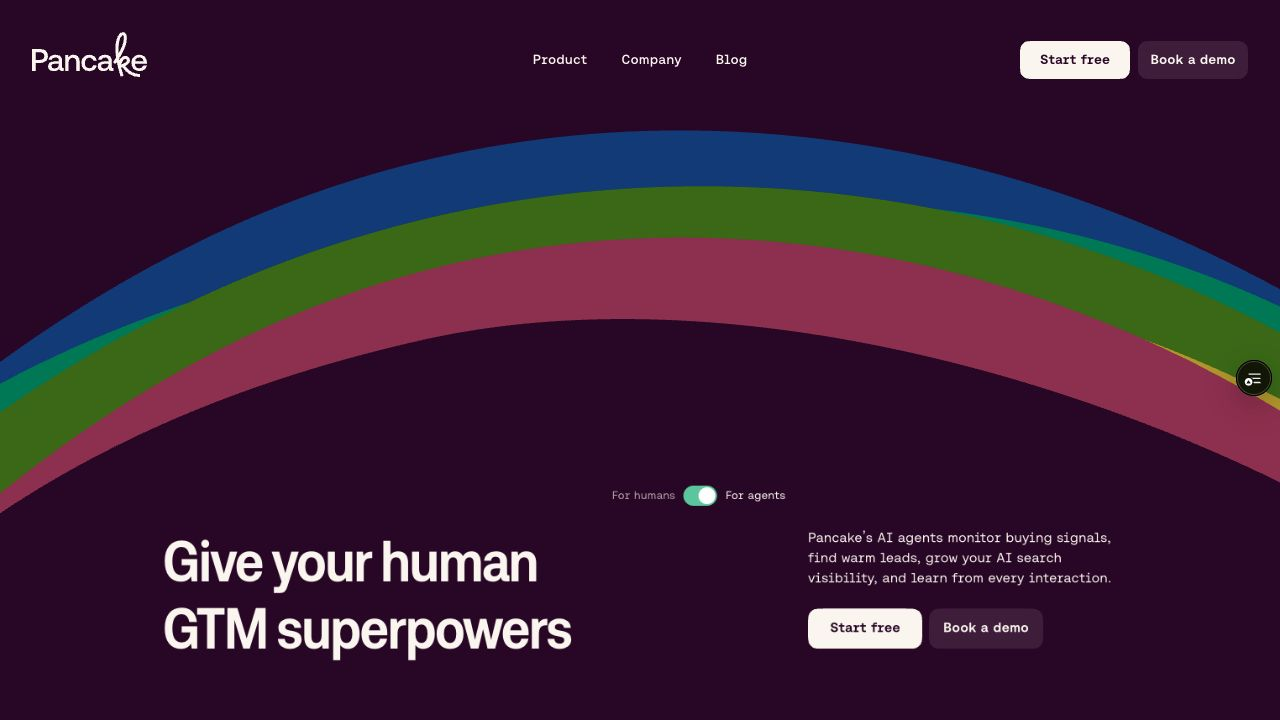
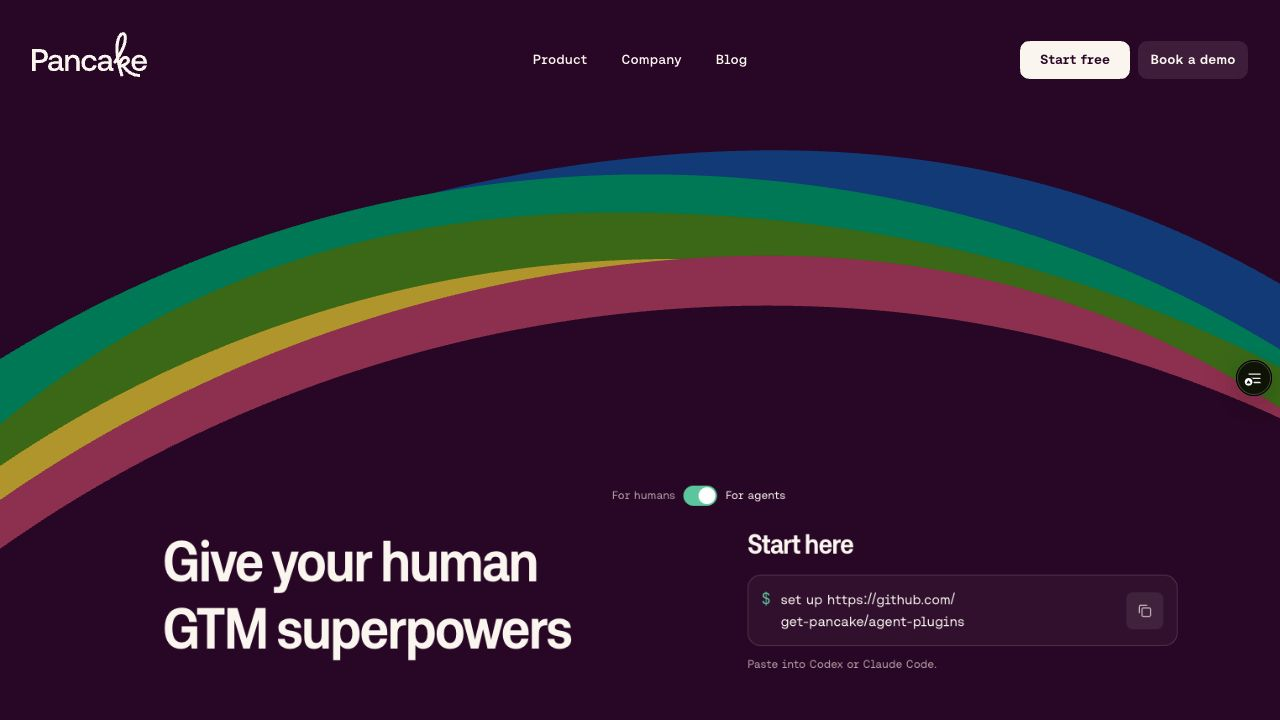
Add agent setup terminal CTA

diff --git a/app/_styles/landing-v3/audience.css b/app/_styles/landing-v3/audience.css
@@ -33,6 +33,42 @@ html:has(.lp-audience-page)::view-transition-new(lp-audience-switch) { animation
 .lp-audience-page .lp-hero-title { display: grid; }
 .lp-hero-title__copy { grid-area: 1 / 1; font: inherit; letter-spacing: inherit; }
 .lp-hero-title__copy[aria-hidden="true"] { visibility: hidden; }
+
+/* The agent's next step occupies the existing right-hand hero column.
+   The original human content keeps its own untouched layout. */
+.lp-hero-col--agent { display: none; }
+.lp-hero-inner:not([data-title-ready="true"]) .lp-hero-col--agent { visibility: hidden; }
+[data-audience="agents"] .lp-hero-col--human { display: none; }
+[data-audience="agents"] .lp-hero-col--agent { display: block; top: var(--lp-hero-title-top); bottom: auto; }
+.lp-agent-start { width: calc(var(--lp-space-8) * 16); max-width: 100%; color: var(--lp-text); }
+.lp-agent-start__title { margin: 0 0 var(--lp-space-4); font-size: var(--lp-text-3xlg); line-height: 1.2; letter-spacing: -.03em; }
+.lp-agent-terminal { display: grid; grid-template-columns: auto minmax(0, 1fr) auto; gap: var(--lp-space-3); align-items: center; padding: var(--lp-space-4); border: var(--lp-line) solid color-mix(in srgb, var(--lp-page-bg) 16%, transparent); border-radius: var(--lp-r-m); background: color-mix(in srgb, var(--lp-page-bg) 5%, var(--lp-ink-100)); }
+.lp-agent-terminal__prompt { color: var(--lp-green-20); font: inherit; align-self: start; line-height: 1.6; }
+.lp-agent-terminal__code { display: block; font-family: var(--lp-font-fono); font-size: var(--lp-text-md); line-height: 1.6; color: var(--lp-page-bg); overflow-wrap: anywhere; text-wrap: balance; user-select: text; }
+.lp-agent-terminal__segment { font: inherit; white-space: nowrap; }
+.lp-agent-terminal__copy { display: grid; place-items: center; width: calc(var(--lp-space-12) - var(--lp-space-1)); height: calc(var(--lp-space-12) - var(--lp-space-1)); padding: 0; border: 0; border-radius: var(--lp-r-xsm); background: color-mix(in srgb, var(--lp-page-bg) 8%, transparent); color: var(--lp-ink-50); cursor: pointer; touch-action: manipulation; transition: background-color .16s ease-out, color .16s ease-out, transform .16s ease-out; }
+.lp-agent-terminal__copy:hover { background: color-mix(in srgb, var(--lp-page-bg) 14%, transparent); color: var(--lp-page-bg); }
+.lp-agent-terminal__copy:active { transform: scale(.94); }
+.lp-agent-terminal__copy:focus-visible { outline: calc(2 * var(--lp-line)) solid var(--lp-green-20); outline-offset: var(--lp-space-1); }
+.lp-agent-terminal__copy svg { width: calc(var(--lp-space-4) + var(--lp-space-1)); height: calc(var(--lp-space-4) + var(--lp-space-1)); }
+.lp-agent-terminal[data-copy-state="copied"] .lp-agent-terminal__copy { color: var(--lp-green-20); }
+.lp-agent-terminal[data-copy-state="copied"] svg { animation: lp-agent-copy-check .18s var(--lp-audience-ease); }
+.lp-agent-start__hint { padding-top: var(--lp-space-3); min-height: calc(var(--lp-space-3) + 1.5em); font-size: var(--lp-text-sm); line-height: 1.5; color: var(--lp-ink-60); }
+@keyframes lp-agent-copy-check { from { opacity: 0; transform: scale(.8); } to { opacity: 1; transform: scale(1); } }
+@media (max-width: 1024px) {
+  [data-audience="agents"] .lp-hero-inner { width: 100%; min-width: 0; }
+  .lp-hero-col--agent { width: 100%; min-width: 0; max-width: 100%; }
+  .lp-agent-start { width: 100%; max-width: calc(var(--lp-space-8) * 16); }
+}
+@media (max-width: 767px) {
+  .lp-agent-start__title { font-size: var(--lp-text-2xlg); }
+  .lp-agent-terminal { gap: var(--lp-space-2); padding: var(--lp-space-3); }
+  .lp-agent-start__hint { min-height: calc(var(--lp-space-3) + 3em); }
+}
+@media (prefers-reduced-motion: reduce) {
+  .lp-agent-terminal__copy { transition: none; }
+  .lp-agent-terminal[data-copy-state="copied"] svg { animation: none; }
+}
 .lp-audience-selector { display: grid; grid-template-columns: 1fr auto 1fr; align-items: center; gap: var(--lp-space-2); color: var(--lp-text); font-size: var(--lp-text-sm); white-space: nowrap; }
 .lp-audience-selector__label { opacity: .65; }
 .lp-audience-selector__label:first-child { text-align: right; }

diff --git a/components/sections/landing-v3/LpAgentStart.tsx b/components/sections/landing-v3/LpAgentStart.tsx
@@ -1,0 +1,54 @@
+"use client";
+
+import { useEffect, useRef, useState } from "react";
+
+// The public plugin repository contains the maintained client-specific setup.
+// This is an instruction for an agent, not a shell command.
+const instruction = "set up https://github.com/get-pancake/agent-plugins";
+
+export function LpAgentStart() {
+  const [status, setStatus] = useState<"idle" | "copied" | "error">("idle");
+  const reset = useRef<ReturnType<typeof setTimeout>>();
+  const code = useRef<HTMLElement>(null);
+
+  useEffect(() => () => clearTimeout(reset.current), []);
+
+  const copy = async () => {
+    clearTimeout(reset.current);
+    try {
+      await navigator.clipboard.writeText(instruction);
+      setStatus("copied");
+      reset.current = setTimeout(() => setStatus("idle"), 2400);
+    } catch {
+      // Keep a useful manual path when clipboard permission is unavailable.
+      if (code.current) {
+        const range = document.createRange();
+        range.selectNodeContents(code.current);
+        const selection = window.getSelection();
+        selection?.removeAllRanges();
+        selection?.addRange(range);
+      }
+      setStatus("error");
+    }
+  };
+
+  return <div className="lp-agent-start" aria-labelledby="lp-agent-start-title">
+    <h2 id="lp-agent-start-title" className="lp-agent-start__title lp-display">Start here</h2>
+    <div className="lp-agent-terminal" data-copy-state={status}>
+      <span className="lp-agent-terminal__prompt" aria-hidden="true">$</span>
+      <code ref={code} className="lp-agent-terminal__code">set up https://github.com/<wbr /><span className="lp-agent-terminal__segment">get-pancake/</span><wbr /><span className="lp-agent-terminal__segment">agent-plugins</span></code>
+      <button
+        type="button"
+        className="lp-agent-terminal__copy"
+        aria-label={status === "copied" ? "Instruction copied" : "Copy instruction"}
+        onClick={copy}
+      >
+        {status === "copied" ? <svg key="check" viewBox="0 0 24 24" fill="none" stroke="currentColor" strokeWidth="1.5" strokeLinecap="round" strokeLinejoin="round" aria-hidden="true"><path d="m5 12 4 4L19 6" /></svg>
+          : <svg key="copy" viewBox="0 0 24 24" fill="none" stroke="currentColor" strokeWidth="1.5" strokeLinecap="round" strokeLinejoin="round" aria-hidden="true"><rect x="8" y="8" width="12" height="12" rx="2" /><path d="M15 4H6a2 2 0 0 0-2 2v9" /></svg>}
+      </button>
+    </div>
+    <p className="lp-agent-start__hint" role="status" aria-live="polite">
+      {status === "error" ? "Select the instruction and copy it." : status === "copied" ? "Copied. Paste into Codex or Claude Code." : "Paste into Codex or Claude Code."}
+    </p>
+  </div>;
+}

diff --git a/components/sections/landing-v3/LpHero.tsx b/components/sections/landing-v3/LpHero.tsx
@@ -1,4 +1,5 @@
 import { AudienceHeadline, AudienceSelector } from "./LpAudience";
+import { LpAgentStart } from "./LpAgentStart";
 import { LpArcCanvas } from "@/components/sections/landing-v3/LpArcCanvas";
 import { LpFxLink, LpFxPill } from "@/components/sections/landing-v3/LpFxButton";
 import { LpPancakes } from "@/components/sections/landing-v3/LpPancakes";
@@ -32,7 +33,7 @@ export function LpHero() {
         <h1 id="lp-hero-title" className="lp-hero-title lp-display">
           <AudienceHeadline />
         </h1>
-        <div className="lp-hero-col">
+        <div className="lp-hero-col lp-hero-col--human">
           <p className="lp-hero-lede">
             Pancake’s AI agents monitor buying signals, find warm leads, grow
             your AI search visibility, and learn from every interaction.
@@ -54,6 +55,7 @@ export function LpHero() {
             </LpFxPill>
           </div>
         </div>
+        <div className="lp-hero-col lp-hero-col--agent"><LpAgentStart /></div>
       </div>
     </section>
   );

diff --git a/components/sections/landing-v3/LpAudience.tsx b/components/sections/landing-v3/LpAudience.tsx
@@ -126,6 +126,8 @@ export function AudienceSelector() {
       const center = Math.max(half + edge, Math.min((title.right - box.left) / scale - gap, inner.offsetWidth - half - edge));
       placement.style.setProperty("--lp-audience-center", `${center}px`);
       placement.style.setProperty("--lp-audience-top", `${(title.top - box.top) / scale}px`);
+      inner.style.setProperty("--lp-hero-title-top", `${(title.top - box.top) / scale}px`);
+      inner.dataset.titleReady = "true";
       placement.dataset.ready = "true";
     };
     const observer = new ResizeObserver(position);

diff --git a/docs/human-agent-product-evidence.md b/docs/human-agent-product-evidence.md
@@ -1,35 +1,34 @@
 # Human / agent landing: product evidence
 
-Reviewed 2026-09-04. This file records the public basis and verification limits for the landing's connection claims. Public copy lives in `public/agents.md` and `public/llms.txt`. Maintained connection configuration and reported client reads were reviewed on this date. An authenticated workspace workflow was not executed as part of this documentation pass.
+Reviewed September 4, 2026. The current agent hero exposes one setup instruction. No plugin was installed and no authenticated workspace operation was performed during this landing verification.
 
-## Evidence used
+## Current setup destination
+
+The [official public plugin repository](https://github.com/get-pancake/agent-plugins) is accessible without sign-in. Its README links both maintained client guides:
+
+- [Codex](https://github.com/get-pancake/agent-plugins/blob/main/codex/README.md): install the marketplace and `pancake-workflow` plugin, then authorize MCP. The guide includes current version requirements and the older-client OAuth configuration.
+- [Claude Code](https://github.com/get-pancake/agent-plugins/blob/main/claude-code/README.md): install the marketplace and plugin, then authenticate Pancake through `/mcp`.
+
+The plugin bundles the operating skill and MCP connection. The user completes browser sign-in and workspace consent. The standalone `SKILL.md` assumes an existing MCP connection; it is not an installation guide.
+
+The landing displays and copies exactly:
+
+```text
+set up https://github.com/get-pancake/agent-plugins
+```
+
+This is a natural-language instruction to paste into Codex or Claude Code, not an executable shell command. The decorative `$` is excluded from the clipboard.
+
+## Public product evidence
 
 | Claim | Source | Scope |
 | --- | --- | --- |
-| ChatGPT, Codex, and Claude connections; browser sign-in; workspace choice; connection revocation; reading the GTM Brain | [Public support](https://getpancake.ai/support), source `app/support/page.tsx:28–37` | Publicly documented. |
-| OAuth, one approved workspace, request-specific workspace data | [Public privacy policy](https://getpancake.ai/privacy), source `app/privacy/page.tsx:288–306` | Publicly documented. |
-| Current MCP endpoint and explicit Codex OAuth client metadata configuration; Codex CLI 0.148.0 or newer | Maintained configuration reviewed 2026-09-04; published in [the agent guide](https://getpancake.ai/agents.md) | Local CLI syntax checked; authenticated login not independently verified. |
-| Claude Code reads the Brain, existing leads, and SEO calendar | Reported client reads reviewed 2026-09-04 | The implementation uses an illustrative demonstration of these reads. No authenticated customer data is displayed. |
+| ChatGPT, Codex and Claude connections; browser sign-in; workspace choice; revocation; reading the GTM Brain | [Public support](https://getpancake.ai/support) | Publicly documented. |
+| OAuth, one approved workspace and request-specific workspace data | [Privacy policy](https://getpancake.ai/privacy) | Publicly documented. |
+| Codex and Claude Code plugin installation | [Public plugin repository](https://github.com/get-pancake/agent-plugins) | Guides and public availability checked in Codex Browser. Installation and authenticated reads were not executed. |
 
-The current endpoint is `https://app.getpancake.ai/api/mcp`; OAuth client metadata is at `https://app.getpancake.ai/.well-known/mcp-clients/pancake-cli.json`. Local Codex CLI help confirms the `--url` and `--oauth-client-id` flags used in the published command. The app destination was verified to reach sign-in. Codex Browser blocked public endpoint metadata with `ERR_BLOCKED_BY_CLIENT`; metadata availability and an authenticated workspace read were not independently verified. A successful read of public metadata would establish configuration availability, not successful authentication or authorized tool execution.
+## Verification boundary
 
-## Demonstration contract
+The landing makes no claim that copying the instruction installs or connects Pancake. Successful OAuth and tool execution remain separate from the verified clipboard action and public guide availability. New client support, acquisition writes, publishing and tool schemas must be verified before being demonstrated as executable operations.
 
-The illustrative demonstration uses existing Brain and lead context, explains a buying opportunity, and ends with an agent-authored message draft. This connects the documented read capabilities to customer acquisition without implying that the connector found new leads or sent a message.
-
-- Identify example companies, records, and results as illustrative.
-- Keep the result at draft / review. Do not claim a message was sent or a customer replied.
-- Do not invent MCP tool names or response schemas.
-- Describe Pancake's product automation separately from client-accessible operations.
-- A copy button must copy the displayed prompt, server URL, or commands. A link to setup should say it opens setup, not that it has connected an account.
-
-## Remaining product dependencies
-
-1. **Current public Claude Code installation instructions:** client support was reviewed, but a current public installation command has not been independently verified. Until the guided setup is verified, publish the current server URL and connection support destination without a guessed Claude Code command.
-2. **Authenticated operation catalog:** no complete current public tool schema was available in the inspected landing repository. Brain, lead, and SEO calendar reads are evidenced; acquisition writes, Brain updates, publishing, and new lead-search calls must be checked against authenticated tool discovery before being demonstrated as executable operations.
-3. **Article body export:** full article body access has not been verified. Calendar access alone does not establish content export. Do not promise export to an external Next.js build, markdown download, or a publication webhook without verifying the relevant operation.
-4. **End-to-end connection validation:** the documented Codex configuration and version guidance do not substitute for completing OAuth and reading the selected workspace. Preserve that distinction in validation reporting.
-
-## Discoverability
-
-The static `/agents.md` guide is available to clients without the visual selector or JavaScript. `/agents` renders the same source as a readable HTML page for browser visitors. `/llms.txt` links to it near the top and includes the endpoint and capability boundaries. The existing `app/robots.ts` permits all crawlers. The new `/agents` guide is linked from the page and sitemap. Signup, scheduler, and analytics behavior are unchanged.
+The earlier `/agents` and `/agents.md` landing guides were removed when the concept was simplified. The current instruction points to the maintained public plugin repository instead of an unavailable local guide. `/llms.txt` and crawler rules remain unchanged.

diff --git a/docs/human-agent-design.md b/docs/human-agent-design.md
@@ -1,14 +1,15 @@
 # Human / agent toggle foundation
 
-Scope reset by Tristan on September 4, 2026: keep the existing landing, add a toggle above the headline’s right edge, and prepare an agent page containing the hero in inverse colors with one empty viewport below. The agent headline was subsequently changed at Tristan’s request; other copy and product demonstrations are deferred.
+Scope reset by Tristan on September 4, 2026: keep the existing landing, add a toggle above the headline’s right edge, and prepare an agent page containing the hero in inverse colors with one empty viewport below. The agent headline and a terminal-style setup CTA were subsequently added at Tristan’s request; product demonstrations are deferred.
 
 ## Implemented
 
 - Human mode is the original v3 landing (baseline `14ad159`) with only the audience selector added.
 - The selector uses the [Figma Signals switch](https://www.figma.com/design/fr8NgOCTUxsEbrMEJA3YKu/Pancake-Design?node-id=4389-781): a 40×24 track, 20×20 white thumb and 2px inset. Per Tristan’s follow-up, human mode uses the human rainbow’s blue (`--lp-blue-40`) and agent mode its green (`--lp-green-20`). The artwork sits within a 44×44 keyboard-accessible button.
 - Agent mode reads “Give your human” / “GTM superpowers” in the original headline’s font, size, weight and spacing. Human mode retains “You run your company” / “We bring you customers”. Both layers share the original headline box so the toggle and adjacent content stay fixed. The inactive copy is hidden visually and from assistive technology.
-- Agent mode keeps the original navigation, description, buttons, layout and rainbow motion. Cream and plum exchange roles; each of the five rainbow bands uses its exact RGB negative.
-- Only an empty `100vh` section follows the agent hero. There is no agent demo, setup block, pricing, testimonial section or footer in this view.
+- Agent mode replaces the hero description and buttons with “Start here”, a copyable `set up https://github.com/get-pancake/agent-plugins` instruction, and “Paste into Codex or Claude Code.” The public repository contains the maintained installation guides for both clients. The terminal uses Fono, plum/cream tokens and a green prompt; its copy action confirms success and offers manual selection if clipboard access fails.
+- Agent mode keeps the original navigation, H1 typography and rainbow motion. Cream and plum exchange roles; each of the five rainbow bands uses its exact RGB negative.
+- Only an empty `100vh` section follows the agent hero. There is no content below the hero besides that empty section.
 - `/?audience=agents` opens the inverse hero directly. The toggle updates the URL without remounting the hero; refresh and browser history retain the selected view.
 - Audience changes use a quick 240ms page crossfade, including the rainbow. The switch is excluded from that fade and keeps its ordinary thumb slide. Active canvas renderers repaint the new palette synchronously, eliminating the previous capture wait while preserving their clocks. Reduced motion and browsers without this API switch immediately; there is no entrance animation on initial loading.
 - Hidden original sections remain mounted so their fit and motion observers survive the return to human mode.
@@ -18,14 +19,15 @@ Scope reset by Tristan on September 4, 2026: keep the existing landing, add a to
 ## Validation
 
 - Codex Browser found identical original human text/link records and desktop layout measurements at 1280×720.
-- Both perspectives have identical headline typography and box geometry; only the agent headline’s words change.
+- Both perspectives use identical H1 typography. The human hero text and desktop geometry remain identical to the prior preview; the agent setup block aligns with the H1 on desktop and flows below it on phones.
 - Original human layout comparisons passed at 320×740, 393×852 and 768×1024; the selector stays inside the phone viewport.
 - Agent mode exposes only the hero and a blank section measuring exactly the viewport height.
 - Direct agent URL, keyboard switching, back/forward, reduced motion, inverse mobile menu and the existing booking dialog were checked. The live WebGL renderer and forced phone Canvas fallback both retained the correct palette through audience changes.
+- Terminal CTA checked at 320×740, 393×852, 1025×768 and 1280×720. Clipboard copying and keyboard activation succeed; human hero text and desktop geometry match the previous preview.
 - Independent code review confirmed the reduced scope and original component parity.
 - The crossfade was measured at 240ms in both directions on desktop and phone. Heading geometry, scroll position and canvas instances remained unchanged. Three rapid toggles, Back/Forward and reduced-motion switching passed without errors.
 - Removing the capture wait reduced measured desktop click-to-fade onset from about 95–100ms to 20–30ms. Only the page snapshot fades; the named switch snapshot has no fade animation.
 
-Preview: https://pancake-ppe5mcwq9-getpancake.vercel.app
+Preview: https://pancake-qp9xierjb-getpancake.vercel.app
 
-The research screenshots and product evidence retained beside this document are historical research from the earlier, broader concept. They do not describe the implemented scope above.
+The setup CTA borrows the single copyable instruction pattern from [Monid](https://monid.ai/), adapted to Pancake’s existing typography, colors and geometry. Other reference screenshots are historical research from the broader concept.

diff --git a/PROGRESS.md b/PROGRESS.md
@@ -21,11 +21,12 @@ Scope: original human landing plus a selector above the headline’s right edge.
 - [x] Add a quick 240ms crossfade in both directions, respecting reduced motion.
 - [x] Remove the pre-fade wait and keep the switch’s standard slide outside the page crossfade.
 - [x] Set the agent H1 to “Give your human” / “GTM superpowers”, preserving the original font, size and headline box.
+- [x] Add the agent-only “Start here” terminal CTA with verified public plugin setup URL and working copy feedback.
 - [x] Compare desktop and phone human layouts against baseline `14ad159`.
 - [x] Independently review code and test booking and mobile menu behavior.
 - [x] Complete production build and updated Vercel preview verification.
 
-Preview: https://pancake-ppe5mcwq9-getpancake.vercel.app
+Preview: https://pancake-qp9xierjb-getpancake.vercel.app
 Draft PR: https://github.com/get-pancake/website/pull/275
 
 Implementation and validation: [human-agent-design.md](docs/human-agent-design.md).
